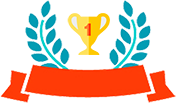
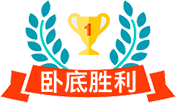
9

Changed region(s): [[0.2273, 0.6699, 0.7955, 0.9029]]

diff --git a/9_result.html b/9_result.html
@@ -1,14 +1,205 @@
 <!DOCTYPE html>
 <html lang="en">
+
 <head>
     <meta charset="UTF-8">
     <meta name="viewport" content="width=device-width, initial-scale=1.0">
     <meta http-equiv="X-UA-Compatible" content="ie=edge">
     <title>桌游精灵-结果页</title>
+    <style>
+        * {
+            margin: 0;
+            padding: 0;
+            outline: 0;
+            box-sizing: border-box;
+        }
+
+        header {
+            width: 100%;
+            height: 44px;
+            background-color: #29bde0;
+            color: #fff;
+            position: relative;
+            position: fixed;
+            top: 0;
+            z-index: 1;
+            border-bottom: 1px solid #50c9e6;
+        }
+
+        .icon-home {
+            width: 26px;
+            height: 23px;
+            background: url('./image/9_home.png') no-repeat center center;
+            background-size: 100% 100%;
+            position: absolute;
+            top: 0;
+            left: 0;
+            margin-left: 15px;
+            margin-top: 10px;
+        }
+
+        .title {
+            width: 80px;
+            height: 44px;
+            line-height: 44px;
+            font-size: 20px;
+            margin: 0 auto;
+            text-align: center;
+        }
+
+        .icon-help {
+            width: 22px;
+            height: 22px;
+            background: url('./image/9_help.png') no-repeat center center;
+            background-size: 100% 100%;
+            position: absolute;
+            top: 0;
+            right: 0;
+            margin-right: 15px;
+            margin-top: 10px;
+        }
+
+        main {
+            width: 100%;
+            margin-top: 44px;
+            margin-bottom: 78px;
+
+        }
+
+        .result-top {
+            width: 100%;
+            height: 200px;
+            background-color: #29bde0;
+            margin: 0 auto;
+            padding-top: 12px;
+        }
+
+        .white-text {
+            width: 176px;
+            height: 103px;
+            margin: 0 auto;
+            background: url('./image/9_win.png') no-repeat center center;
+            background-size: 100% 100%;
+        }
+
+        .yellow-text {
+            width: 80%;
+            color: #ffc865;
+            margin: 5px auto;
+        }
+
+        .result-bottom {
+            width: 100%;
+            height: 106px;
+            background-color: #29bde0;
+            color: #fff;
+            font-size: 14px;
+        }
+
+        .result-bottom>div {
+            width: 80%;
+            margin: 0 auto;
+        }
+
+        .people {
+            display: flex;
+            place-content: center flex-start;
+            flex-flow: row wrap;
+            align-items: flex-start;
+        }
+
+        .people>div {
+            width: 33%;
+        }
+
+        .days {
+            width: 100%;
+        }
+
+        .days-item {
+            width: 100%;
+            padding: 0 10%;
+            border-bottom: 1px solid #ededed;
+            position: relative;
+        }
+        .days-item-title{
+            font-size: 16px;
+        }
+        .days-item-time{
+            position: absolute;
+            top: 0;
+            right: 0;
+            margin-right: 10%;
+        }
+        .days-item-content{
+            font-size: 12px;
+            color: #eee;
+        }
+
+        footer {
+            width: 100%;
+            height: 78px;
+            position: fixed;
+            bottom: 0;
+            z-index: 1;
+            background-color: rgba(41, 189, 224, .5);
+        }
+    </style>
 </head>
+
 <body>
     <header>
-        卧底胜利
+        <div class="icon-home"></div>
+        <div class="title">游戏结果</div>
+        <div class="icon-help"></div>
     </header>
+    <main>
+        <div class="result-top">
+
+            <div class="white-text"></div>
+            <div class="yellow-text">太棒了!你知道么？在捉鬼游戏中只有20%的卧底取得游戏最终的胜利哦！</div>
+        </div>
+        <div class="result-bottom">
+            <div>
+                本次游戏共计用时0小时25分钟
+            </div>
+            <div class="people">
+                <div>杀 手0人</div>
+                <div>警 察1人</div>
+                <div>平 民6人 </div>
+                <div>狙击手0人</div>
+                <div>医 生1人</div>
+            </div>
+            <div>卧底词汇：爱新觉罗</div>
+            <div>水民词汇：努尔哈赤</div>
+        </div>
+        <div class="days">
+            <div class="days-item">
+                <div class="days-item-title">第1天</div>
+                <div class="days-item-time">0小时07分</div>
+                <div class="days-item-content">
+                    晚上：5号被杀手杀死，5号是水民
+                </div>
+                <div class="days-item-content">
+                    白天：8号被全民投票投死，8号是杀手
+                </div>
+            </div>
+            <div class="days-item">
+                <div class="days-item-title">第2天</div>
+                <div class="days-item-time">0小时07分</div>
+                <div class="days-item-content">
+                    晚上：5号被杀手杀死，5号是水民
+                </div>
+                <div class="days-item-content">
+                    白天：8号被全民投票投死，8号是杀手
+                </div>
+            </div>
+        </div>
+    </main>
+    <footer>
+        <div class="btn-again">再来一局</div>
+        <div class="btn-share">上传分享</div>
+    </footer>
 </body>
+
 </html>
